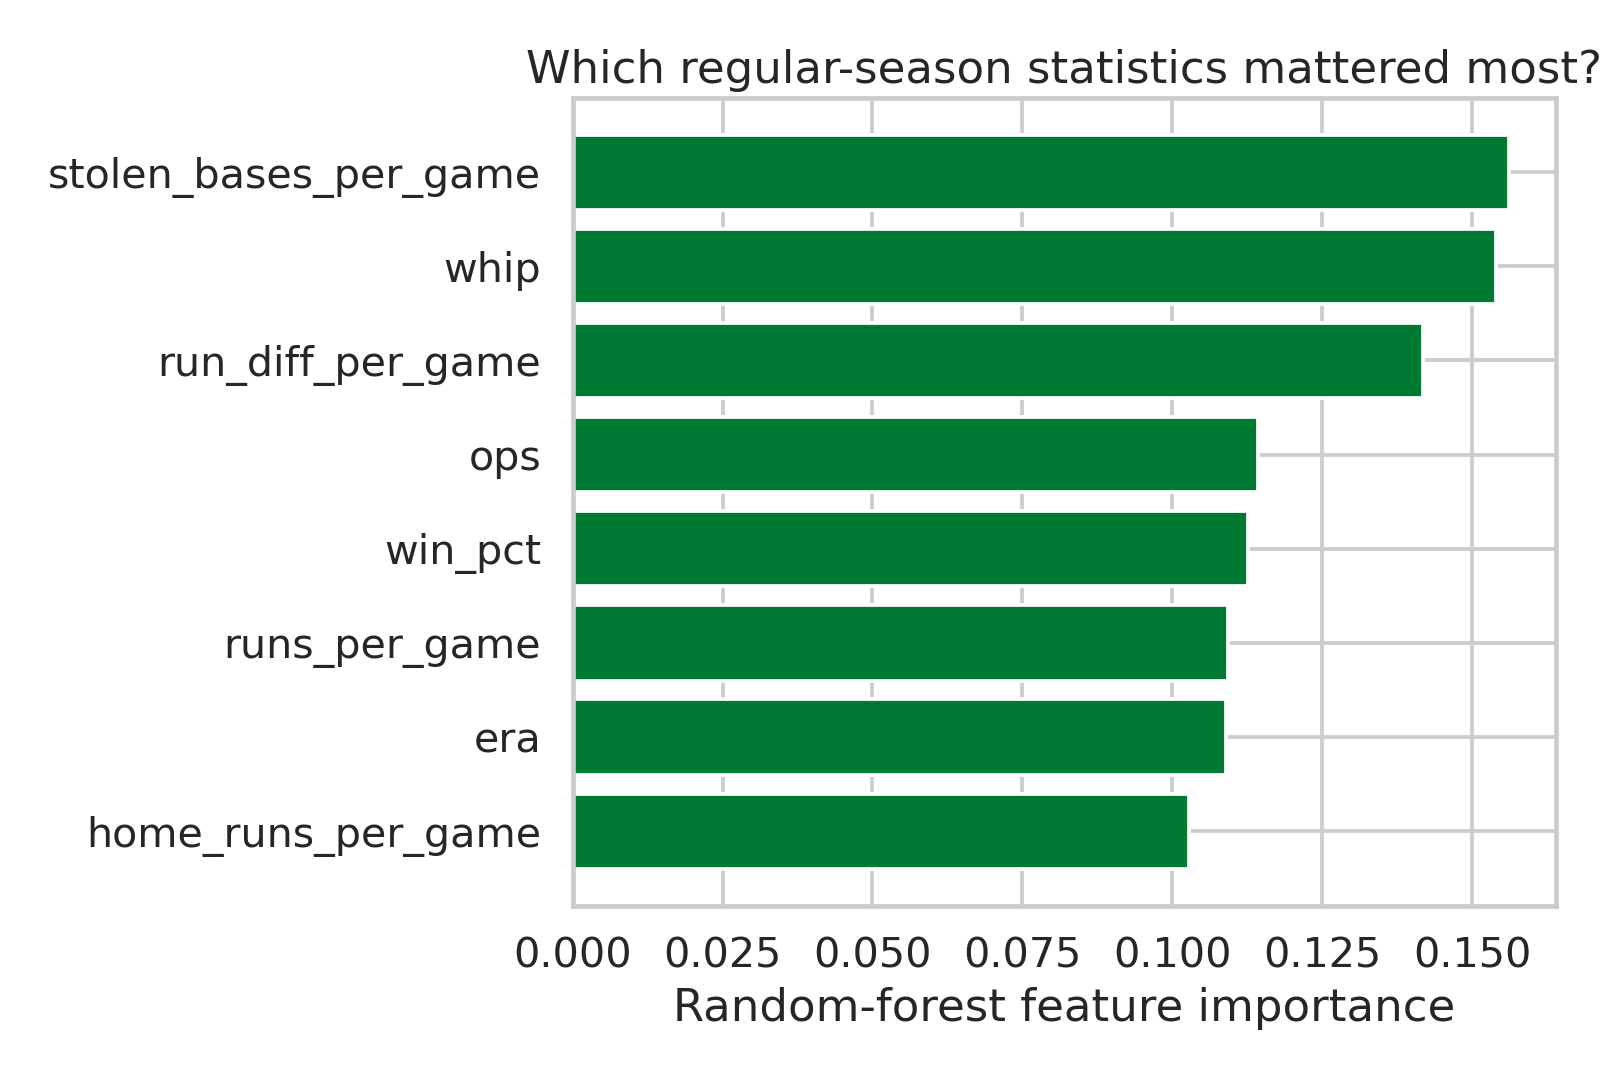
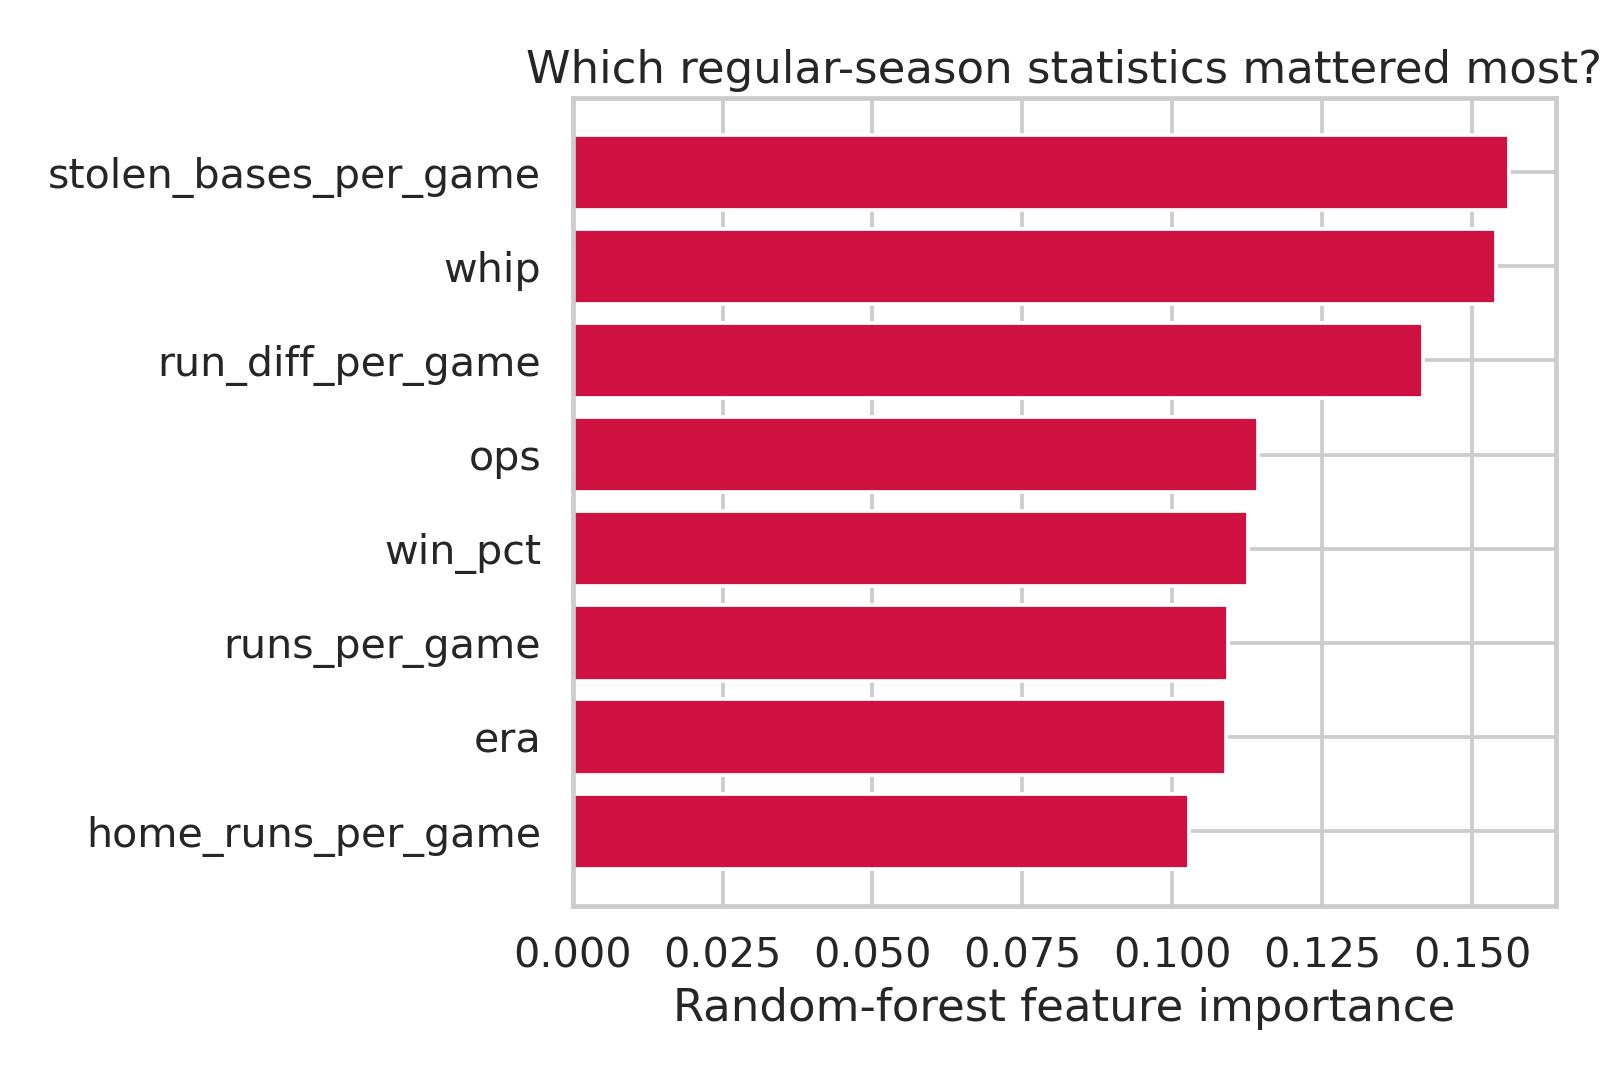
Apply Atlanta Braves color theme

Changed region(s): [[0.3395, 0.1222, 0.9568, 0.825]]

diff --git a/styles.css b/styles.css
@@ -1,1 +1,1 @@
-:root{--green:#203731;--gold:#ffb612;--cream:#f7f4ea;--ink:#18201d;--muted:#5f6b66;--white:#fff;--line:#d9dedb;--max:1120px}*{box-sizing:border-box}html{scroll-behavior:smooth}body{margin:0;color:var(--ink);font-family:Inter,ui-sans-serif,system-ui,-apple-system,BlinkMacSystemFont,"Segoe UI",sans-serif;line-height:1.65;background:var(--white)}a{color:#006b4f}img{display:block;width:100%;border-radius:14px}.hero{background:radial-gradient(circle at 88% 20%,rgba(255,182,18,.28),transparent 24%),linear-gradient(145deg,#142922,var(--green));color:#fff;padding-bottom:72px}.nav{max-width:var(--max);margin:auto;padding:22px 24px;display:flex;align-items:center;justify-content:space-between;gap:24px}.brand{font-size:1.15rem;font-weight:850;color:#fff;text-decoration:none}.nav-links{display:flex;align-items:center;gap:22px}.nav-links>a{color:#fff;text-decoration:none;font-weight:650}.hero-content{max-width:var(--max);margin:56px auto 0;padding:0 24px}.eyebrow,.section-label{text-transform:uppercase;letter-spacing:.14em;font-size:.78rem;font-weight:850;color:var(--gold)}h1{max-width:900px;margin:.25rem 0 1rem;font-size:clamp(2.8rem,7vw,5.8rem);line-height:.98;letter-spacing:-.055em}.lede{max-width:780px;font-size:1.25rem;color:#e4ebe7}.actions{display:flex;flex-wrap:wrap;gap:12px;margin:28px 0}.button{display:inline-flex;align-items:center;justify-content:center;background:var(--gold);color:#17211d!important;padding:12px 18px;border-radius:8px;text-decoration:none!important;font-weight:800;border:2px solid var(--gold)}.button.secondary{background:transparent;color:inherit!important;border-color:currentColor}.button.small{padding:8px 12px;font-size:.9rem}.stat-row{display:grid;grid-template-columns:repeat(4,1fr);border-top:1px solid rgba(255,255,255,.25);margin-top:52px;padding-top:28px}.stat-row div{display:flex;flex-direction:column}.stat-row strong{font-size:2.2rem;color:var(--gold)}.stat-row span{color:#d7e0dc}.section{max-width:var(--max);margin:auto;padding:88px 24px}.section.tinted{max-width:none;background:var(--cream);padding-left:max(24px,calc((100% - var(--max))/2 + 24px));padding-right:max(24px,calc((100% - var(--max))/2 + 24px))}.section h2{font-size:clamp(2rem,4vw,3.2rem);line-height:1.12;letter-spacing:-.035em;margin:.25rem 0 1.25rem;max-width:850px}.section h3{margin-top:1.7rem}.two-col{display:grid;grid-template-columns:.85fr 1.25fr;gap:64px;align-items:start}blockquote{font-size:1.55rem;line-height:1.45;margin:0 0 22px;padding-left:22px;border-left:6px solid var(--gold);font-weight:700}.cards{display:grid;grid-template-columns:repeat(4,1fr);gap:18px;margin-top:30px}.cards.three{grid-template-columns:repeat(3,1fr)}.card{border:1px solid var(--line);border-radius:14px;padding:24px;background:#fff}.card h3{margin:0 0 8px}.card p{margin:0;color:var(--muted)}figcaption{font-size:.9rem;color:var(--muted);margin-top:10px}.wide-figure{max-width:980px;margin:20px auto 0}.steps{padding:0;list-style:none;counter-reset:steps;display:grid;grid-template-columns:repeat(2,1fr);gap:16px}.steps li{counter-increment:steps;border-left:4px solid var(--gold);padding:14px 18px;background:var(--cream)}.steps li:before{content:counter(steps) ". ";font-weight:900;color:#007a55}.model-list{border-top:1px solid var(--line)}.model-list div{display:flex;justify-content:space-between;gap:20px;padding:20px 0;border-bottom:1px solid var(--line)}.model-list span{color:var(--muted)}.table-wrap{overflow-x:auto}table{border-collapse:collapse;width:100%;background:#fff}th,td{text-align:left;padding:14px;border-bottom:1px solid var(--line);white-space:nowrap}th{background:var(--green);color:#fff}.best td{background:#fff8df;font-weight:750}.result-callout{font-size:1.12rem;border-left:6px solid var(--gold);background:#fff;padding:20px;margin:32px 0}.dark-actions .button.secondary{color:var(--green)!important}.references{padding-left:20px}.references li{margin-bottom:12px}.disclosure{margin-top:36px;padding:24px;border-radius:14px;background:var(--cream);border-left:6px solid var(--gold)}footer{background:#111d18;color:#dce4e0;padding:28px max(24px,calc((100% - var(--max))/2 + 24px));display:flex;justify-content:space-between}footer a{color:var(--gold)}code{background:#eef1ef;padding:.1em .35em;border-radius:4px}@media(max-width:800px){.nav-links>a:not(.button){display:none}.two-col{grid-template-columns:1fr;gap:28px}.cards,.cards.three,.steps{grid-template-columns:1fr 1fr}.stat-row{grid-template-columns:1fr 1fr;gap:22px}}@media(max-width:520px){.cards,.cards.three,.steps{grid-template-columns:1fr}.stat-row{grid-template-columns:1fr 1fr}.nav{padding:16px}.hero-content{margin-top:30px}.section{padding-top:64px;padding-bottom:64px}}
+:root{--green:#13274f;--gold:#ce1141;--cream:#f4f6fa;--ink:#101b33;--muted:#5c667a;--white:#fff;--line:#d8deea;--max:1120px}*{box-sizing:border-box}html{scroll-behavior:smooth}body{margin:0;color:var(--ink);font-family:Inter,ui-sans-serif,system-ui,-apple-system,BlinkMacSystemFont,"Segoe UI",sans-serif;line-height:1.65;background:var(--white)}a{color:#13274f}img{display:block;width:100%;border-radius:14px}.hero{background:radial-gradient(circle at 88% 20%,rgba(206,17,65,.30),transparent 24%),linear-gradient(145deg,#0b1936,var(--green));color:#fff;padding-bottom:72px}.nav{max-width:var(--max);margin:auto;padding:22px 24px;display:flex;align-items:center;justify-content:space-between;gap:24px}.brand{font-size:1.15rem;font-weight:850;color:#fff;text-decoration:none}.nav-links{display:flex;align-items:center;gap:22px}.nav-links>a{color:#fff;text-decoration:none;font-weight:650}.hero-content{max-width:var(--max);margin:56px auto 0;padding:0 24px}.eyebrow,.section-label{text-transform:uppercase;letter-spacing:.14em;font-size:.78rem;font-weight:850;color:var(--gold)}h1{max-width:900px;margin:.25rem 0 1rem;font-size:clamp(2.8rem,7vw,5.8rem);line-height:.98;letter-spacing:-.055em}.lede{max-width:780px;font-size:1.25rem;color:#e7ebf3}.actions{display:flex;flex-wrap:wrap;gap:12px;margin:28px 0}.button{display:inline-flex;align-items:center;justify-content:center;background:var(--gold);color:#ffffff!important;padding:12px 18px;border-radius:8px;text-decoration:none!important;font-weight:800;border:2px solid var(--gold)}.button.secondary{background:transparent;color:inherit!important;border-color:currentColor}.button.small{padding:8px 12px;font-size:.9rem}.stat-row{display:grid;grid-template-columns:repeat(4,1fr);border-top:1px solid rgba(255,255,255,.25);margin-top:52px;padding-top:28px}.stat-row div{display:flex;flex-direction:column}.stat-row strong{font-size:2.2rem;color:var(--gold)}.stat-row span{color:#dce2ee}.section{max-width:var(--max);margin:auto;padding:88px 24px}.section.tinted{max-width:none;background:var(--cream);padding-left:max(24px,calc((100% - var(--max))/2 + 24px));padding-right:max(24px,calc((100% - var(--max))/2 + 24px))}.section h2{font-size:clamp(2rem,4vw,3.2rem);line-height:1.12;letter-spacing:-.035em;margin:.25rem 0 1.25rem;max-width:850px}.section h3{margin-top:1.7rem}.two-col{display:grid;grid-template-columns:.85fr 1.25fr;gap:64px;align-items:start}blockquote{font-size:1.55rem;line-height:1.45;margin:0 0 22px;padding-left:22px;border-left:6px solid var(--gold);font-weight:700}.cards{display:grid;grid-template-columns:repeat(4,1fr);gap:18px;margin-top:30px}.cards.three{grid-template-columns:repeat(3,1fr)}.card{border:1px solid var(--line);border-radius:14px;padding:24px;background:#fff}.card h3{margin:0 0 8px}.card p{margin:0;color:var(--muted)}figcaption{font-size:.9rem;color:var(--muted);margin-top:10px}.wide-figure{max-width:980px;margin:20px auto 0}.steps{padding:0;list-style:none;counter-reset:steps;display:grid;grid-template-columns:repeat(2,1fr);gap:16px}.steps li{counter-increment:steps;border-left:4px solid var(--gold);padding:14px 18px;background:var(--cream)}.steps li:before{content:counter(steps) ". ";font-weight:900;color:#ce1141}.model-list{border-top:1px solid var(--line)}.model-list div{display:flex;justify-content:space-between;gap:20px;padding:20px 0;border-bottom:1px solid var(--line)}.model-list span{color:var(--muted)}.table-wrap{overflow-x:auto}table{border-collapse:collapse;width:100%;background:#fff}th,td{text-align:left;padding:14px;border-bottom:1px solid var(--line);white-space:nowrap}th{background:var(--green);color:#fff}.best td{background:#fbe9ee;font-weight:750}.result-callout{font-size:1.12rem;border-left:6px solid var(--gold);background:#fff;padding:20px;margin:32px 0}.dark-actions .button.secondary{color:var(--green)!important}.references{padding-left:20px}.references li{margin-bottom:12px}.disclosure{margin-top:36px;padding:24px;border-radius:14px;background:var(--cream);border-left:6px solid var(--gold)}footer{background:#0b1936;color:#e7ebf3;padding:28px max(24px,calc((100% - var(--max))/2 + 24px));display:flex;justify-content:space-between}footer a{color:var(--gold)}code{background:#eef1ef;padding:.1em .35em;border-radius:4px}@media(max-width:800px){.nav-links>a:not(.button){display:none}.two-col{grid-template-columns:1fr;gap:28px}.cards,.cards.three,.steps{grid-template-columns:1fr 1fr}.stat-row{grid-template-columns:1fr 1fr;gap:22px}}@media(max-width:520px){.cards,.cards.three,.steps{grid-template-columns:1fr}.stat-row{grid-template-columns:1fr 1fr}.nav{padding:16px}.hero-content{margin-top:30px}.section{padding-top:64px;padding-bottom:64px}}

diff --git a/analysis.py b/analysis.py
@@ -126,11 +126,11 @@ def fit_and_evaluate(df):
 
 def make_figures(df, test, results, predictions, importance):
     sns.set_theme(style="whitegrid", context="talk")
-    green, gold, navy = "#007A33", "#FFB612", "#1f2937"
+    red, navy, gray = "#CE1141", "#13274F", "#7C879E"
 
     plt.figure(figsize=(9, 6))
-    sns.boxplot(data=df, x="world_series_winner", y="win_pct", color=green)
-    sns.stripplot(data=df, x="world_series_winner", y="win_pct", color=gold, alpha=.6, jitter=.18)
+    sns.boxplot(data=df, x="world_series_winner", y="win_pct", color=navy)
+    sns.stripplot(data=df, x="world_series_winner", y="win_pct", color=red, alpha=.65, jitter=.18)
     plt.xticks([0, 1], ["Other playoff teams", "World Series winners"])
     plt.xlabel("")
     plt.ylabel("Regular-season win percentage")
@@ -140,7 +140,7 @@ def make_figures(df, test, results, predictions, importance):
     plt.close()
 
     plt.figure(figsize=(9, 6))
-    sns.scatterplot(data=df, x="win_pct", y="run_diff_per_game", hue="world_series_winner", palette={0: navy, 1: gold}, s=90, alpha=.78)
+    sns.scatterplot(data=df, x="win_pct", y="run_diff_per_game", hue="world_series_winner", palette={0: navy, 1: red}, s=90, alpha=.78)
     plt.xlabel("Regular-season win percentage")
     plt.ylabel("Run differential per game")
     plt.title("Champions overlap heavily with other playoff teams")
@@ -150,7 +150,7 @@ def make_figures(df, test, results, predictions, importance):
     plt.close()
 
     plot = results.set_index("model")[["balanced_accuracy", "roc_auc", "pr_auc"]]
-    plot.plot(kind="bar", figsize=(10, 6), color=[green, gold, navy])
+    plot.plot(kind="bar", figsize=(10, 6), color=[navy, red, gray])
     plt.ylim(0, 1)
     plt.ylabel("Score")
     plt.xlabel("")
@@ -163,7 +163,7 @@ def make_figures(df, test, results, predictions, importance):
 
     imp = importance.sort_values("random_forest_importance")
     plt.figure(figsize=(9, 6))
-    plt.barh(imp["feature"], imp["random_forest_importance"], color=green)
+    plt.barh(imp["feature"], imp["random_forest_importance"], color=red)
     plt.xlabel("Random-forest feature importance")
     plt.ylabel("")
     plt.title("Which regular-season statistics mattered most?")
@@ -178,7 +178,7 @@ def make_figures(df, test, results, predictions, importance):
     logit_class.loc[chosen] = 1
     cm = confusion_matrix(test["world_series_winner"], logit_class)
     plt.figure(figsize=(6, 5))
-    sns.heatmap(cm, annot=True, fmt="d", cmap=sns.light_palette(green, as_cmap=True), cbar=False)
+    sns.heatmap(cm, annot=True, fmt="d", cmap=sns.light_palette(red, as_cmap=True), cbar=False)
     plt.xlabel("Predicted class")
     plt.ylabel("Actual class")
     plt.xticks([.5, 1.5], ["Non-winner", "Winner"])
